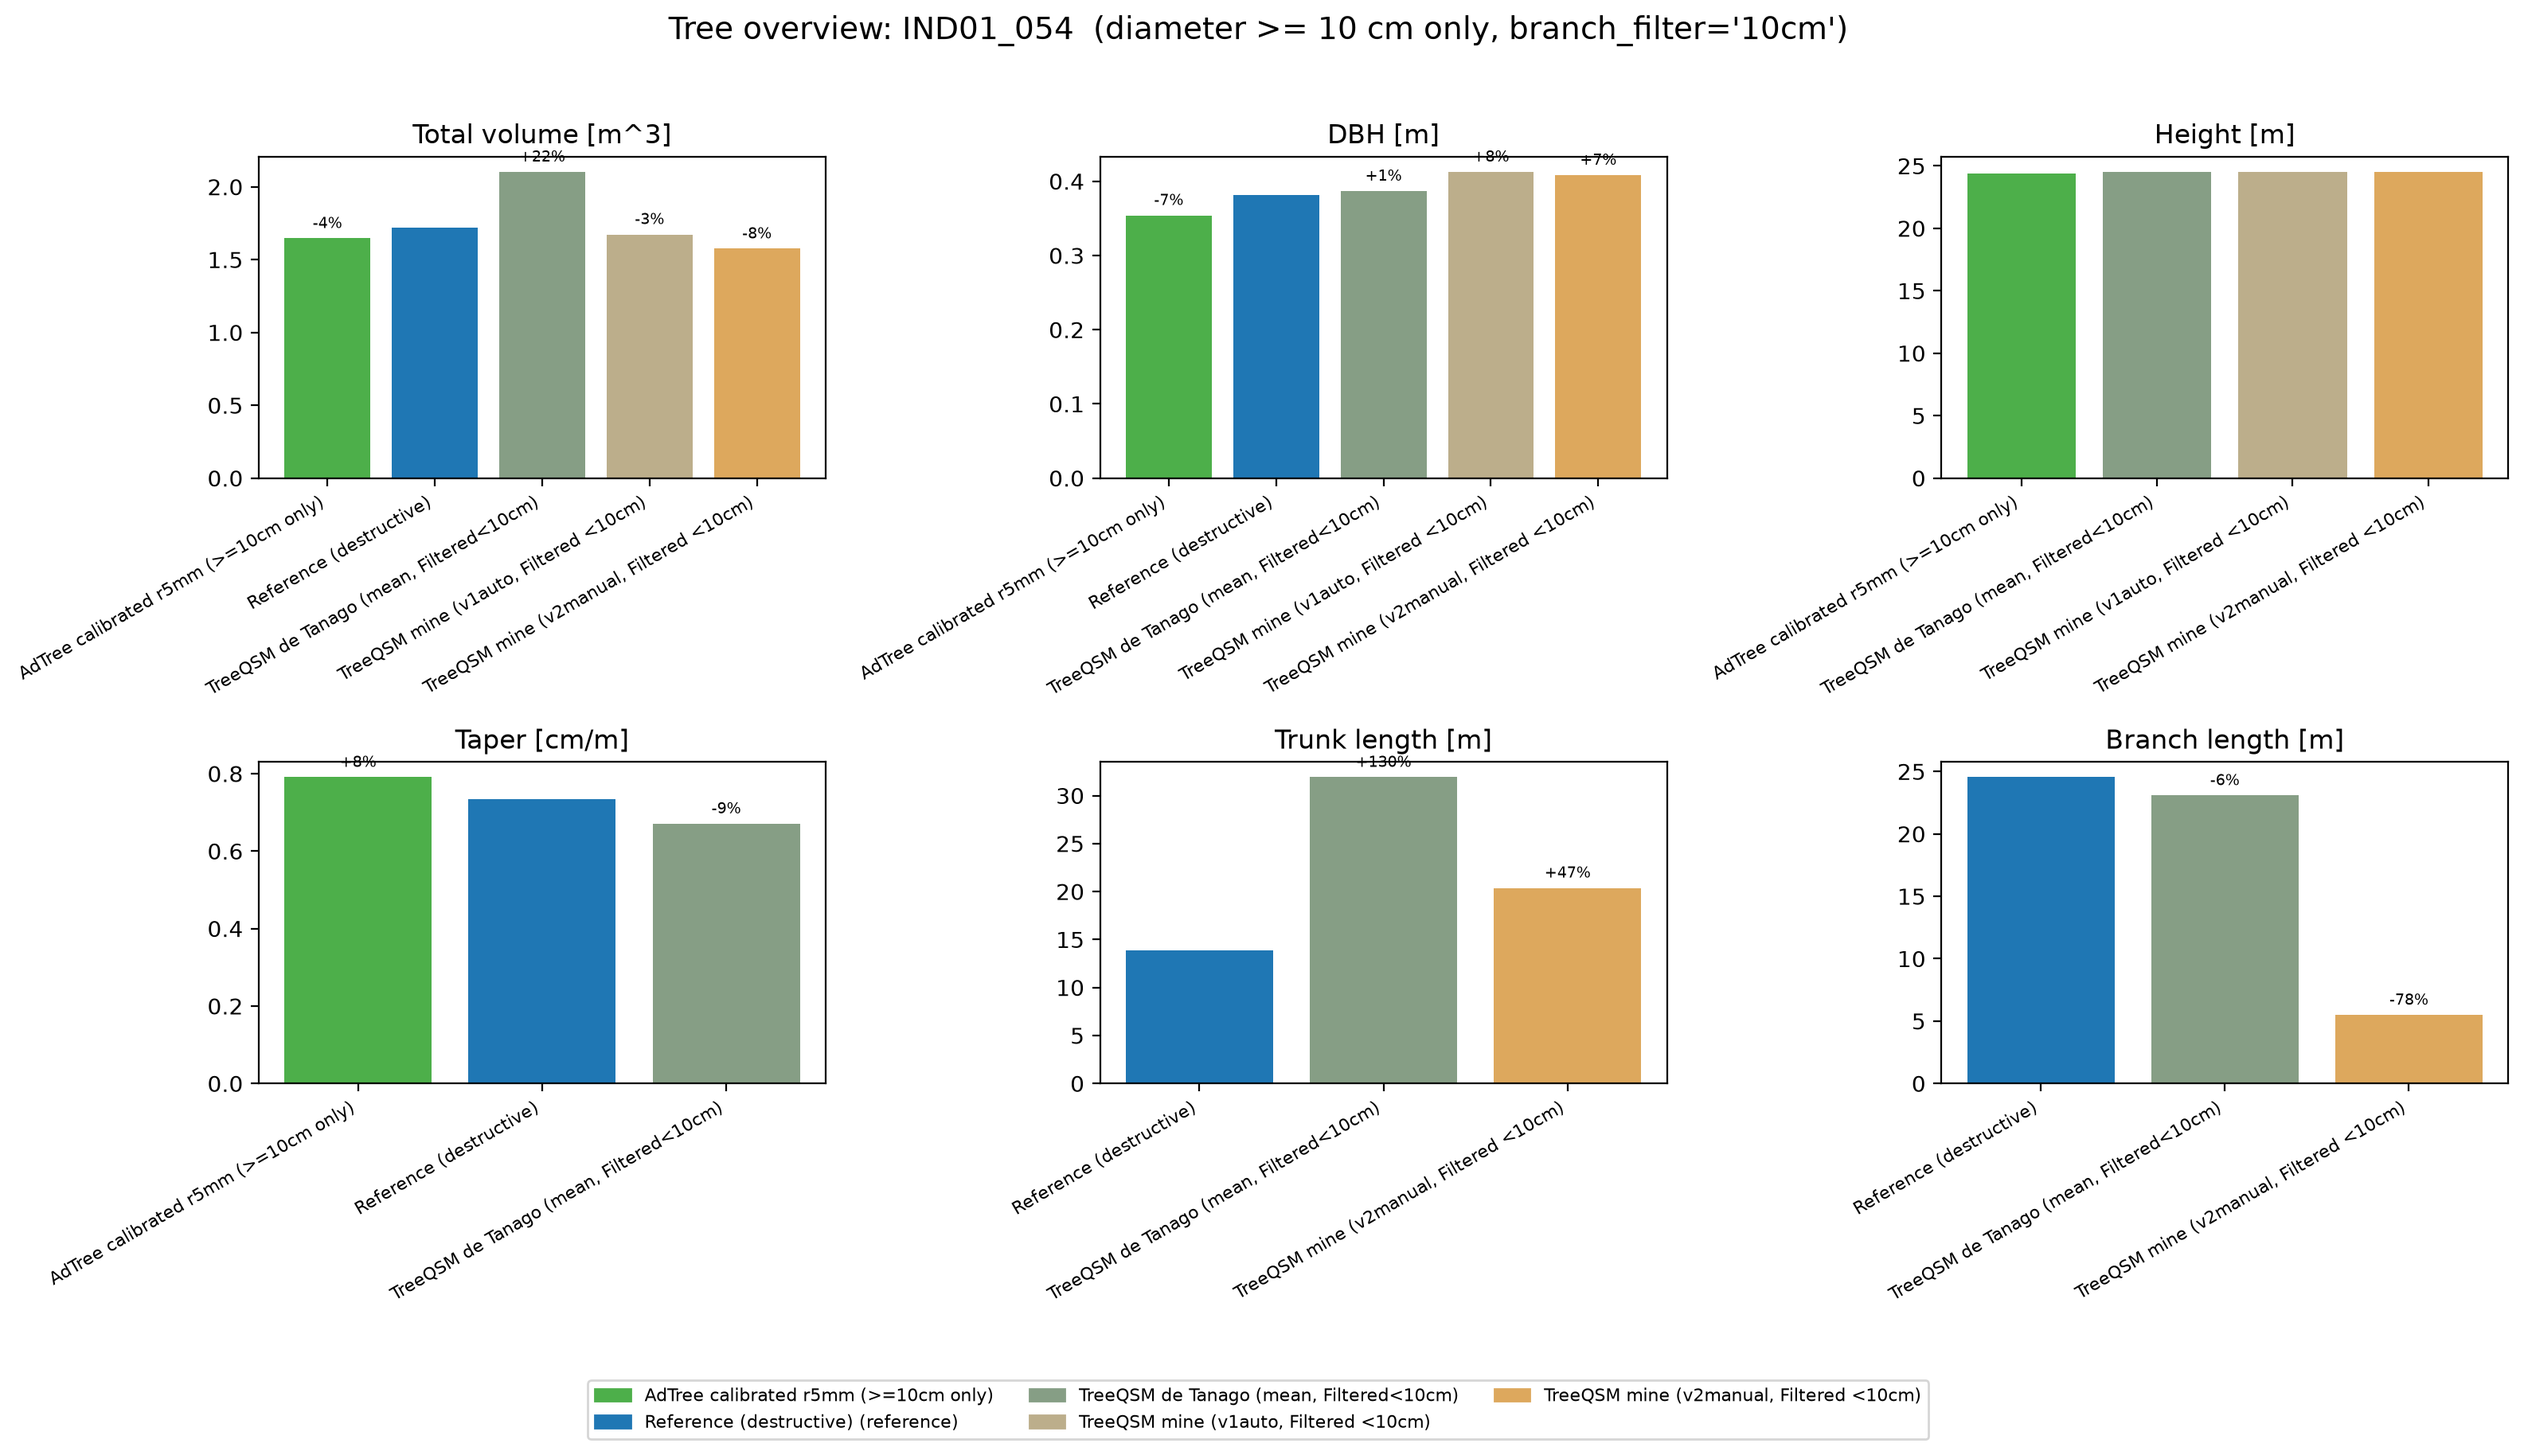
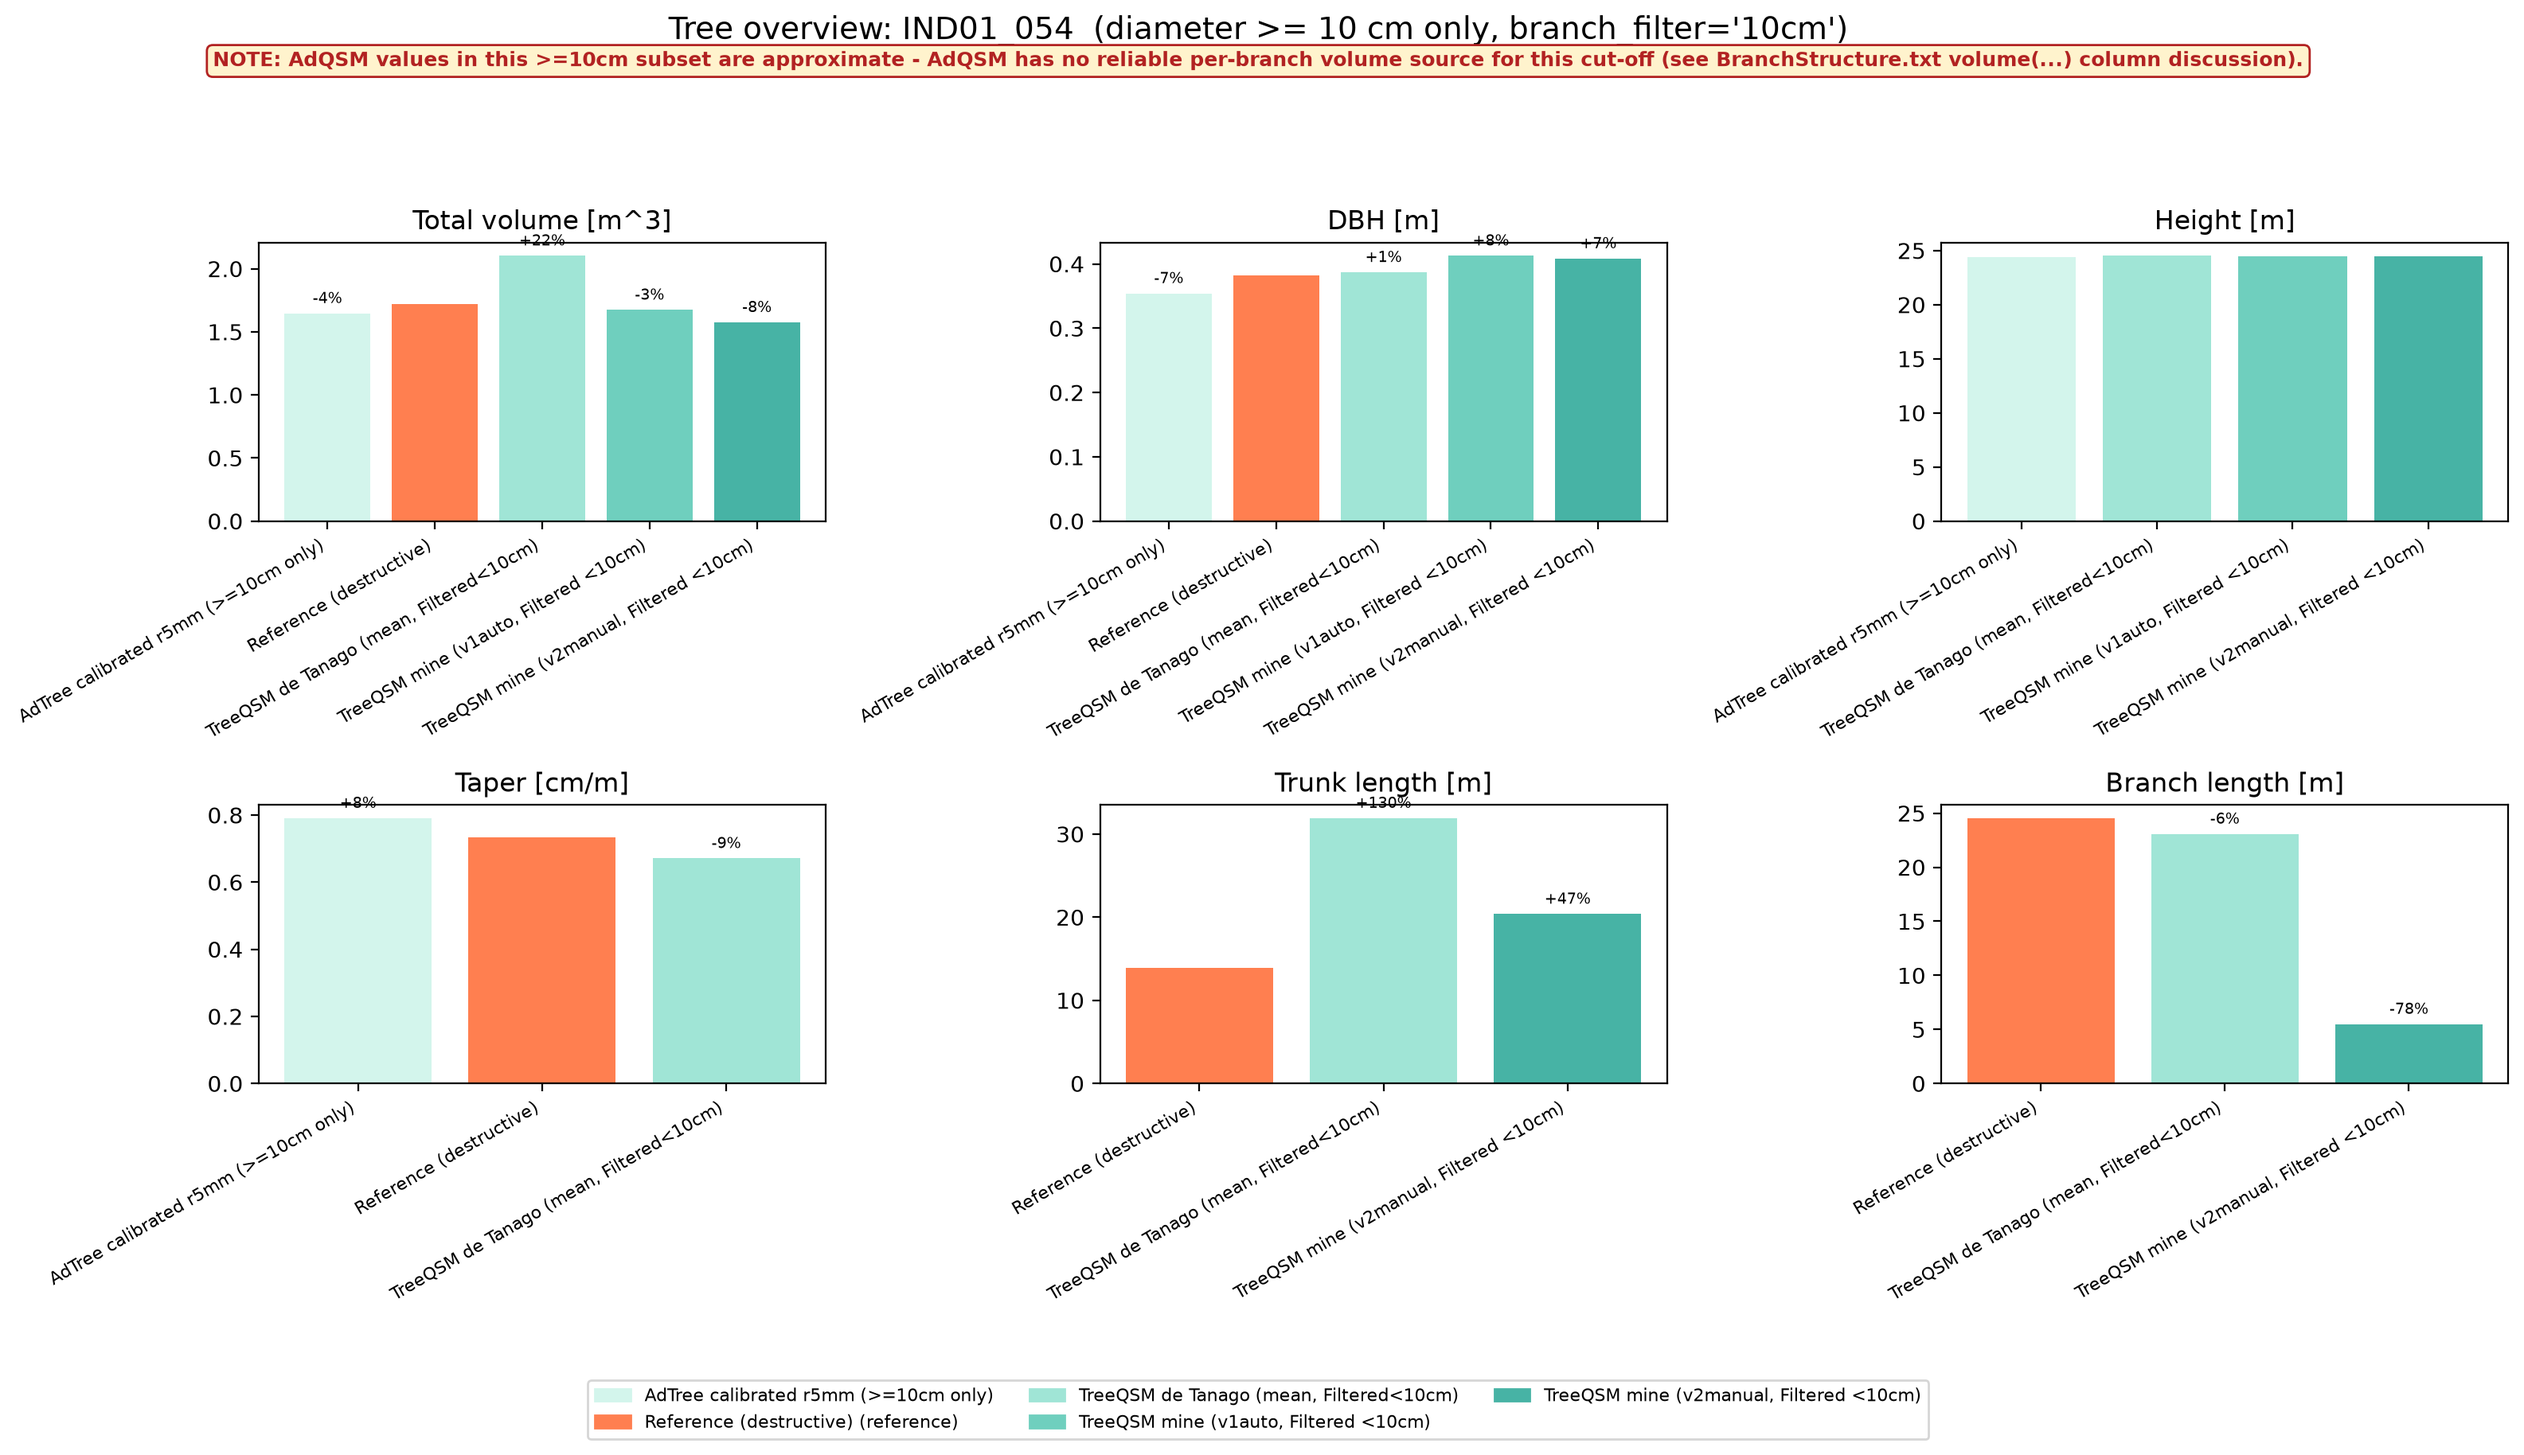
chnages in plotting - added re and warning

diff --git a/scripts/python/plot_volumes.py b/scripts/python/plot_volumes.py
@@ -122,35 +122,43 @@ def save_and_report(fig, filename):
 def build_method_color_map(methods, reference_method):
     """Return a {method: color} dict for the given list of methods.
 
-    Non-reference methods are coloured with a smooth, muted gradient that
-    runs green -> gray -> yellow -> orange (built by hand from those four
-    hex stops via LinearSegmentedColormap, rather than using one of
-    matplotlib's stock qualitative palettes) - a continuous, low-saturation
-    gradient like this stays readable even with a dozen+ methods in one
-    chart, unlike matplotlib's default bright/saturated color cycle, which
-    starts visually clashing once you have more than ~5 categories.
+    Non-reference methods are coloured with a smooth, muted MINT/TEAL
+    gradient - soft mint green through turquoise to a deeper teal (built by
+    hand from those four hex stops via LinearSegmentedColormap, rather than
+    using one of matplotlib's stock qualitative palettes) - a continuous,
+    pastel, low-saturation gradient like this stays readable even with a
+    dozen+ methods in one chart, unlike matplotlib's default bright/
+    saturated color cycle, which starts visually clashing once you have more
+    than ~5 categories. (This was previously a green -> gray -> yellow ->
+    orange gradient; replaced with this mint/teal family on request - the
+    reference highlight colour below changed too, since a "tab:blue"
+    highlight would visually blend into an all-cool mint/teal palette much
+    more than it did against the old warm-toned gradient.)
 
     `reference_method` (the method this chart is comparing everything else
     against - REFERENCE_METHOD for the destructive-reference mode, or
     REFERENCE_METHOD_NONE for the AdQSM-as-yardstick mode) is deliberately
     EXCLUDED from that gradient and instead gets a single fixed highlight
-    colour ("tab:blue") - this guarantees the reference can never
-    accidentally land on the same shade as one of the gradient-coloured
-    methods (which could happen with the old "reference = hard-coded
-    tab:orange, everything else = matplotlib's automatic cycle" approach,
-    since that cycle's orange could still coincide with the explicit one -
-    see the tree_overview color-collision bug fixed earlier in this file's
-    history). Excluding it from the gradient also means its position never
-    shifts the other methods' shades depending on where in the method list
-    it happens to sit.
+    colour ("coral" - a warm, high-contrast tone chosen specifically because
+    the gradient above is entirely cool-toned mint/teal, so a warm highlight
+    stands out at a glance instead of reading as "just another teal shade").
+    This guarantees the reference can never accidentally land on the same
+    shade as one of the gradient-coloured methods (which could happen with
+    the old "reference = hard-coded tab:orange, everything else =
+    matplotlib's automatic cycle" approach, since that cycle's orange could
+    still coincide with the explicit one - see the tree_overview
+    color-collision bug fixed earlier in this file's history). Excluding it
+    from the gradient also means its position never shifts the other
+    methods' shades depending on where in the method list it happens to sit.
     """
     import matplotlib.colors as mcolors
 
-    # Hand-picked, muted stops (not fully saturated matplotlib primaries) so
-    # the gradient stays easy on the eye across many bars/boxes at once.
+    # Hand-picked, pastel mint/turquoise stops (not fully saturated) so the
+    # gradient stays easy on the eye across many bars/boxes at once, while
+    # still spanning a visibly distinct light-mint-to-deep-teal range.
     gradient = mcolors.LinearSegmentedColormap.from_list(
         "method_gradient",
-        ["#4daf4a", "#999999", "#dfc27d", "#d95f02"],  # green -> gray -> yellow -> orange
+        ["#d3f5ec", "#8fe0cf", "#4fbfae", "#2f8f8a"],  # light mint -> mint -> turquoise -> deep teal
     )
 
     non_ref_methods = [m for m in methods if m != reference_method]
@@ -158,13 +166,13 @@ def build_method_color_map(methods, reference_method):
     color_of = {}
     for i, m in enumerate(non_ref_methods):
         # Spread methods evenly across the gradient's full 0..1 range. With
-        # only one non-reference method, t=0.5 (the middle, gray-ish part of
-        # the gradient) is used instead of dividing by (n - 1) = 0.
+        # only one non-reference method, t=0.5 (the middle, turquoise part
+        # of the gradient) is used instead of dividing by (n - 1) = 0.
         t = (i / (n - 1)) if n > 1 else 0.5
         color_of[m] = gradient(t)
 
     if reference_method in methods:
-        color_of[reference_method] = "tab:blue"
+        color_of[reference_method] = "coral"
 
     return color_of
 
@@ -257,7 +265,19 @@ def plot_tree_overview(rows, tree, branch_filter, color_map):
     # One row dict per method, for quick lookups below (assumes at most one
     # row per (tree, method) pair, which is how upsert_result() keeps the CSV).
     row_of = {r["method"]: r for r in tree_rows}
-    ref_row = row_of.get(REFERENCE_METHOD)   # None if this tree has no reference row
+
+    # WHICH method is "the reference" depends on branch_filter, same as
+    # everywhere else in this file: the destructive field reference
+    # (REFERENCE_METHOD) only ever has "10cm" rows, so it can never be found
+    # in "none"-mode data - AdQSM (REFERENCE_METHOD_NONE) plays that role
+    # there instead. Before this fix, this line was hard-coded to
+    # REFERENCE_METHOD, which meant ref_row was ALWAYS None in "none" mode
+    # (since that method never appears there) - so the percent-difference
+    # annotations further down were silently never drawn for "none" mode
+    # charts, even though AdQSM WAS present and perfectly usable as a
+    # yardstick. Computing the right reference per-mode here fixes that.
+    reference_method = REFERENCE_METHOD if branch_filter == "10cm" else REFERENCE_METHOD_NONE
+    ref_row = row_of.get(reference_method)   # None if this tree has no row for that reference
 
     # color_of is just an alias into the shared color_map here (rather than
     # `color_map` directly) so the rest of this function's code below didn't
@@ -313,9 +333,13 @@ def plot_tree_overview(rows, tree, branch_filter, color_map):
 
         # Percent-difference label above every non-reference bar, using the
         # same pct_diff() calculation compare_volumes.py uses for its table.
+        # Compared against `reference_method` (REFERENCE_METHOD for "10cm",
+        # REFERENCE_METHOD_NONE for "none" - see the comment where that
+        # variable is set above), NOT a hard-coded REFERENCE_METHOD, so this
+        # annotation now actually appears in "none"-mode charts too.
         ref_value = ref_row[field_key] if ref_row is not None else None
         for xi, m in zip(x_positions, present_methods):
-            if m == REFERENCE_METHOD:
+            if m == reference_method:
                 continue
             d_pct = pct_diff(row_of[m][field_key], ref_value)
             if d_pct is None:   # no reference value to compare against - leave blank
@@ -331,20 +355,46 @@ def plot_tree_overview(rows, tree, branch_filter, color_map):
                      else "diameter >= 10 cm only, branch_filter='10cm'")
     fig.suptitle("Tree overview: %s  (%s)" % (tree, filter_label), fontsize=14)
 
+    # ONLY for the "10cm" mode: a clearly-visible warning that AdQSM's
+    # numbers in this filtered subset may not be trustworthy. WHY: AdQSM's
+    # BranchStructure.txt has no reliable per-branch volume of its own for
+    # this - its "volume(...)" column is off by orders of magnitude from
+    # AdQSM's own official totals (see report_adqsm_thin_branch() in
+    # tree_geom_utils.py), so any ">=10cm" AdQSM volume has to be
+    # approximated as simple constant-radius cylinders, which measurably
+    # over-estimates volume for tapering branches. This warning does NOT
+    # apply to "none" mode, since that mode uses AdQSM's own official,
+    # un-filtered TreesParams.txt totals directly - no cylinder
+    # approximation involved there. Drawn as fig.text() (a separate, coloured
+    # line - NOT folded into the small suptitle above) with a light
+    # background box, specifically so it can't be mistaken for a routine
+    # subtitle and skimmed past.
+    if branch_filter == "10cm":
+        fig.text(0.5, 0.955,
+                 "NOTE: AdQSM values in this >=10cm subset are approximate - "
+                 "AdQSM has no reliable per-branch volume source for this cut-off "
+                 "(see BranchStructure.txt volume(...) column discussion).",
+                 ha="center", va="top", fontsize=9, color="firebrick", fontweight="bold",
+                 bbox=dict(boxstyle="round,pad=0.3", facecolor="#fff3cd", edgecolor="firebrick"))
+
     # ONE legend for the whole figure (not one per subplot, which would just
     # repeat the same method names 4 times) - built from coloured squares
     # ("patches") rather than real bar handles, since not every method has a
-    # bar in every subplot.
+    # bar in every subplot. "(reference)" is tagged onto whichever method is
+    # THIS mode's reference_method (see where that's computed above), not a
+    # hard-coded REFERENCE_METHOD, so AdQSM correctly gets tagged in "none" mode.
     legend_handles = [
         mpatches.Patch(color=color_of[m],
-                       label=m + (" (reference)" if m == REFERENCE_METHOD else ""))
+                       label=m + (" (reference)" if m == reference_method else ""))
         for m in methods
     ]
     fig.legend(handles=legend_handles, loc="lower center",
                ncol=min(3, len(methods)), fontsize=8, bbox_to_anchor=(0.5, -0.02))
 
-    # rect leaves room at the top for suptitle and at the bottom for the legend.
-    fig.tight_layout(rect=(0, 0.06, 1, 0.96))
+    # rect leaves room at the top for suptitle (+ the AdQSM warning line, when
+    # present, in "10cm" mode) and at the bottom for the legend.
+    top_margin = 0.90 if branch_filter == "10cm" else 0.96
+    fig.tight_layout(rect=(0, 0.06, 1, top_margin))
     save_and_report(fig, "tree_overview_%s_%s.png" % (tree, branch_filter))
 
 
@@ -444,14 +494,14 @@ def plot_error_metrics_bar(rows, branch_filter, reference_method, color_map):
     # for Bias/MAE/RMSE), so a single "one colour per method" mapping
     # (color_map) doesn't fit the same way it does in the other three charts
     # (there, each bar/box IS one method). Instead, the three metrics
-    # themselves are drawn in fixed colours sampled from the SAME green ->
-    # gray -> yellow -> orange family used everywhere else (so this chart
-    # still belongs visually to the same set), and each method's x-axis tick
-    # label is tinted with its color_map colour below - that's how this
-    # chart still shows "this method = this colour", consistent with the rest.
-    ax.bar([xi - width for xi in x], bias, width=width, label="Bias", color="#4daf4a")   # green (gradient start)
-    ax.bar(x,                        mae,  width=width, label="MAE",  color="#999999")   # gray (gradient middle)
-    ax.bar([xi + width for xi in x], rmse, width=width, label="RMSE", color="#d95f02")   # orange (gradient end)
+    # themselves are drawn in fixed colours sampled from the SAME mint/teal
+    # family used everywhere else (so this chart still belongs visually to
+    # the same set), and each method's x-axis tick label is tinted with its
+    # color_map colour below - that's how this chart still shows "this
+    # method = this colour", consistent with the rest.
+    ax.bar([xi - width for xi in x], bias, width=width, label="Bias", color="#8fe0cf")   # mint (gradient start)
+    ax.bar(x,                        mae,  width=width, label="MAE",  color="#4fbfae")   # turquoise (gradient middle)
+    ax.bar([xi + width for xi in x], rmse, width=width, label="RMSE", color="#2f8f8a")   # deep teal (gradient end)
     ax.axhline(0.0, color="gray", linestyle="-", linewidth=0.8)
     ax.set_xticks(x)
     ax.set_xticklabels(methods, rotation=30, ha="right")
